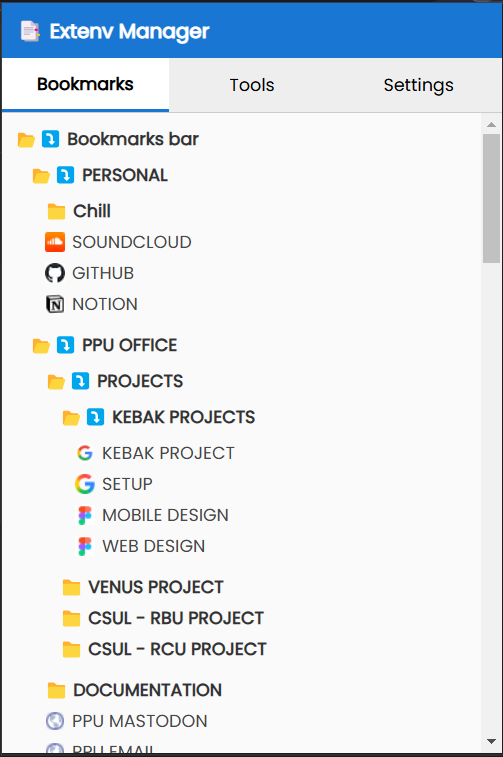
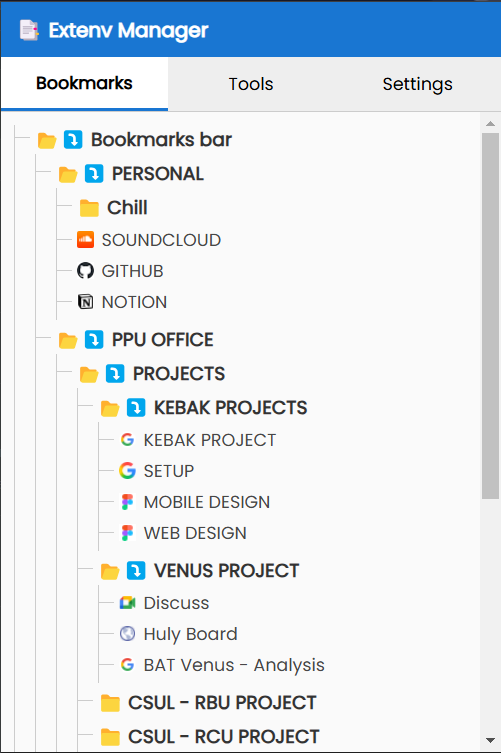
update

diff --git a/src/assets/scripts/utils/tabs.js b/src/assets/scripts/utils/tabs.js
@@ -1,10 +1,28 @@
 export function tabs() {
-    document.querySelectorAll('.tabBtn').forEach(btn => {
+    const tabButtons = document.querySelectorAll('.tabBtn');
+    const sections = document.querySelectorAll('section');
+
+    chrome.storage.local.get('activeTab', (data) => {
+        const savedTab = data.activeTab;
+        if (savedTab) {
+            tabButtons.forEach(b => b.classList.remove('active'));
+            sections.forEach(s => s.classList.remove('active'));
+            const btn = document.querySelector(`.tabBtn[data-tab="${savedTab}"]`);
+            const section = document.getElementById(savedTab);
+            if (btn && section) {
+                btn.classList.add('active');
+                section.classList.add('active');
+            }
+        }
+    });
+
+    tabButtons.forEach(btn => {
         btn.addEventListener('click', () => {
-            document.querySelectorAll('.tabBtn').forEach(b => b.classList.remove('active'));
-            document.querySelectorAll('section').forEach(s => s.classList.remove('active'));
+            tabButtons.forEach(b => b.classList.remove('active'));
+            sections.forEach(s => s.classList.remove('active'));
             btn.classList.add('active');
             document.getElementById(btn.dataset.tab).classList.add('active');
+            chrome.storage.local.set({ activeTab: btn.dataset.tab });
         });
     });
 }

diff --git a/src/assets/scripts/logic/tools.js b/src/assets/scripts/logic/tools.js
@@ -11,13 +11,19 @@ tools.forEach(tool => {
 
 export function ToolItems() {
     toolList.querySelectorAll("li").forEach(item => {
-        item.addEventListener("click", () => {
-            chrome.tabs.create({ url: chrome.runtime.getURL(item.dataset.url + ".html") });
-        });
+        if (!item.dataset.bound) {
+            item.addEventListener("click", () => {
+                const url = item.dataset.url;
+                if (url.startsWith("chrome://")) {
+                    chrome.tabs.create({ url });
+                } else {
+                    chrome.tabs.create({ url: chrome.runtime.getURL(url + ".html") });
+                }
+            });
+            item.dataset.bound = "true";
+        }
     });
 }
-
-document.addEventListener("DOMContentLoaded", ToolItems);
 
 searchInput.addEventListener("input", () => {
     const query = searchInput.value.toLowerCase();

diff --git a/src/assets/css/style.css b/src/assets/css/style.css
@@ -344,3 +344,36 @@ li.drag-over-top {
 li.drag-over-bottom {
   border-bottom: 2px solid dodgerblue;
 }
+
+#tree ul {
+  list-style: none;
+  margin: 0;
+  border-left: 1px solid #ccc;
+}
+
+#tree li {
+  position: relative;
+  margin: 4px 0;
+  padding-left: 16px;
+}
+
+#tree li::before {
+  content: '';
+  position: absolute;
+  top: 10px;
+  left: 0;
+  width: 12px;
+  height: 1px;
+  background: #ccc;
+}
+
+#tree .row {
+  display: flex;
+  align-items: center;
+  gap: 6px;
+}
+
+#tree .favicon {
+  width: 14px;
+  height: 14px;
+}

diff --git a/src/assets/scripts/utils/tool-list.js b/src/assets/scripts/utils/tool-list.js
@@ -1,4 +1,5 @@
 export const tools = [
+    { name: "Password Manager", url: "chrome://password-manager/passwords" },
     { name: "Uppercase Converter", url: "tools/uppercase" },
     { name: "Lowercase Converter", url: "tools/lowercase" },
     { name: "Reverse Text", url: "tools/reverse" },
